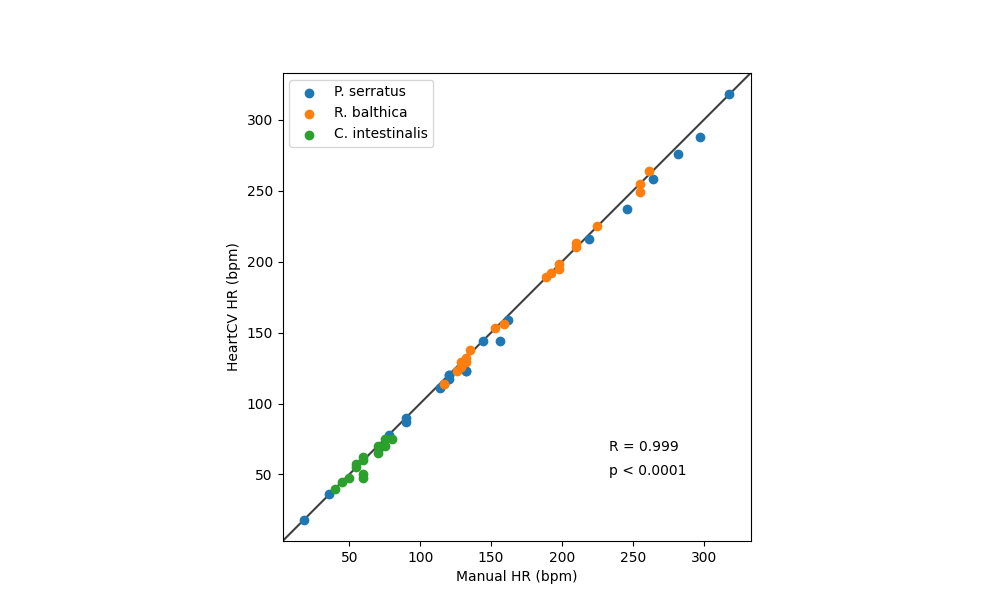
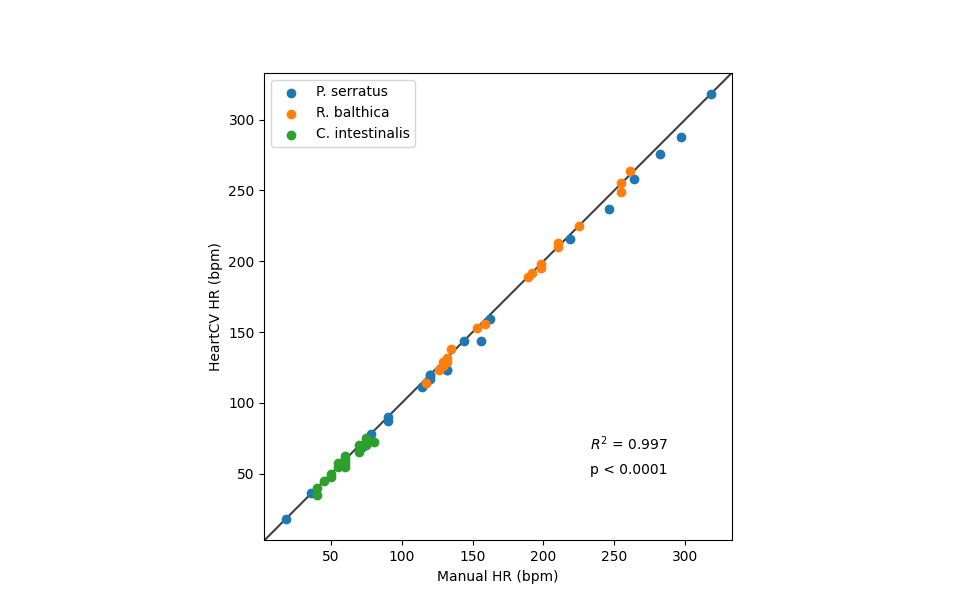
Make further changes to validation plotting and integrate new automated data.

diff --git a/validation/compare_hr_mpx.py b/validation/compare_hr_mpx.py
@@ -5,6 +5,7 @@ import pandas as pd
 import glob
 from statsmodels.nonparametric.smoothers_lowess import lowess
 from scipy.stats import pearsonr
+from sklearn.metrics import r2_score
 
 from heartcv import minmax_scale as scale
 
@@ -29,7 +30,7 @@ def corr_stats(r, p):
     else:
         p_str = 'p > 0.05'
 
-    r_str = f'R = {round(r, 3)}'
+    r_str = f'$R^2$ = {round(r, 3)}'
 
     return r_str, p_str
 
@@ -157,8 +158,8 @@ def stats(d_peaks, s_peaks, l, fs):
     med_t = np.median(d_diffs)
     std_t = d_diffs.std()
 
-    # RMSS
-    rmssd = rmse(d_diffs[1:], d_diffs[:-1])
+    # # RMSS
+    # rmssd = rmse(d_diffs[1:], d_diffs[:-1])
 
     # Diffs
     s_diffs = s_peaks[1:] - s_peaks[:-1]
@@ -169,8 +170,10 @@ def stats(d_peaks, s_peaks, l, fs):
     med_t = np.mean((med_t, s_diffs.min()))
     std_t = np.mean((std_t, s_diffs.min()))
 
-    # RMSS
-    rmssd = np.mean((rmssd, rmse(s_diffs[1:], s_diffs[:-1])))
+    # # RMSS
+    # rmssd = np.mean((rmssd, rmse(s_diffs[1:], s_diffs[:-1])))
+
+    rmssd = None
 
     return [[hr], [min_t], [max_t], [mean_t], [med_t], [std_t], [rmssd]]
 
@@ -637,49 +640,55 @@ all_m = append_with(all_m, stats(*mds23, 300, 30))
 
 # Auto
 ds = parse_auto(
-    "./data/ciona/mpx_auto_MAH03784.csv", inv=False, subset=None, frac=0, prominence=0.2
+    "./data/ciona/mpx2_auto_MAH03784.csv", inv=False, subset=None, frac=0, prominence=0.2
 )
 ds1 = parse_auto(
-    "./data/ciona/mpx_auto_MAH03785.csv", inv=False, subset=None, frac=0, prominence=0.2
+    "./data/ciona/mpx2_auto_MAH03785.csv", inv=False, subset=None, frac=0, prominence=0.2
 )
 ds2 = parse_auto(
-    "./data/ciona/mpx_auto_MAH03786.csv", inv=False, subset=None, frac=0, prominence=0.2
+    "./data/ciona/mpx2_auto_MAH03786.csv", inv=False, subset=None, frac=0, prominence=0.2
 )
 ds3 = parse_auto(
-    "./data/ciona/mpx_auto_MAH03787.csv", inv=False, subset=None, frac=0, prominence=0.2
+    "./data/ciona/mpx2_auto_MAH03787.csv", inv=False, subset=None, frac=0, prominence=0.3
 )
 ds4 = parse_auto(
-    "./data/ciona/mpx_auto_MAH03788.csv", inv=False, subset=None, frac=0, prominence=0.3
+    "./data/ciona/mpx2_auto_MAH03788.csv", inv=False, subset=None, frac=0, prominence=0.3, distance=15
 )
 ds5 = parse_auto(
-    "./data/ciona/mpx_auto_MAH03789.csv", inv=False, subset=None, frac=0, prominence=0.3
+    "./data/ciona/mpx2_auto_MAH03789.csv", inv=False, subset=None, frac=0, prominence=0.3
 )
 ds6 = parse_auto(
-    "./data/ciona/mpx_auto_MAH03790.csv", inv=False, subset=None, frac=0, prominence=0.3
+    "./data/ciona/mpx2_auto_MAH03790.csv", inv=False, subset=None, frac=0, prominence=0.3
 )
 ds7 = parse_auto(
-    "./data/ciona/mpx_auto_MAH03791.csv", inv=False, subset=None, frac=0, prominence=0.15
+    "./data/ciona/mpx2_auto_MAH03791.csv", inv=False, subset=None, frac=0, prominence=0.15
 )
 ds8 = parse_auto(
-    "./data/ciona/mpx_auto_MAH03792.csv", inv=False, subset=None, frac=0, prominence=0.15
+    "./data/ciona/mpx2_auto_MAH03792.csv", inv=False, subset=None, frac=0, prominence=0.15
 )
 ds9 = parse_auto(
-    "./data/ciona/mpx_auto_MAH03793.csv", inv=False, subset=None, frac=0, prominence=0.15
+    "./data/ciona/mpx2_auto_MAH03793.csv", inv=False, subset=None, frac=0, prominence=0.2
 )
 ds10 = parse_auto(
-    "./data/ciona/mpx_auto_MAH03794.csv", inv=False, subset=None, frac=0, prominence=0.15
+    "./data/ciona/mpx2_auto_MAH03794.csv", inv=False, subset=None, frac=0, prominence=0.15
 )
 ds11 = parse_auto(
-    "./data/ciona/mpx_auto_MAH03795.csv", inv=False, subset=None, frac=0, prominence=0.15
+    "./data/ciona/mpx2_auto_MAH03795.csv", inv=False, subset=None, frac=0, prominence=0.15
 )
 ds12 = parse_auto(
-    "./data/ciona/mpx_auto_MAH03795.csv", inv=False, subset=None, frac=0, prominence=0.15
+    "./data/ciona/mpx2_auto_MAH03796.csv", inv=False, subset=None, frac=0, prominence=0.2
+)
+ds13 = parse_auto(
+    "./data/ciona/mpx2_auto_MAH03797.csv", inv=False, subset=None, frac=0, prominence=0.1, distance=40
 )
 ds15 = parse_auto(
-    "./data/ciona/mpx_auto_MAH03798.csv", inv=False, subset=None, frac=0, prominence=0.11
+    "./data/ciona/mpx2_auto_MAH03798.csv", inv=False, subset=None, frac=0, prominence=0.11
 )
 ds16 = parse_auto(
-    "./data/ciona/mpx_auto_MAH03799.csv", inv=False, subset=None, frac=0, prominence=0.11
+    "./data/ciona/mpx2_auto_MAH03799.csv", inv=False, subset=None, frac=0, prominence=0.11
+)
+ds17 = parse_auto(
+    "./data/ciona/mpx2_auto_MAH03800.csv", inv=False, subset=None, frac=0, prominence=0.1, distance=20
 )
 
 # Man
@@ -696,8 +705,10 @@ mds9 = parse_man("./data/ciona/hr2_man_MAH03793.csv")
 mds10 = parse_man("./data/ciona/hr2_man_MAH03794.csv")
 mds11 = parse_man("./data/ciona/hr2_man_MAH03795.csv")
 mds12 = parse_man("./data/ciona/hr2_man_MAH03796.csv")
-mds15 = parse_man("./data/ciona/hr2_man_MAH03799.csv")
-mds16 = parse_man("./data/ciona/hr2_man_MAH03800.csv")
+mds13 = parse_man("./data/ciona/hr2_man_MAH03797.csv")
+mds15 = parse_man("./data/ciona/hr2_man_MAH03798.csv")
+mds16 = parse_man("./data/ciona/hr2_man_MAH03799.csv")
+mds17 = parse_man("./data/ciona/hr2_man_MAH03800.csv")
 
 # Create containers
 a_hr2 = []
@@ -731,8 +742,11 @@ all_a = append_with(all_a, stats(*ds8, 300, 25))
 all_a = append_with(all_a, stats(*ds9, 300, 25))
 all_a = append_with(all_a, stats(*ds10, 300, 25))
 all_a = append_with(all_a, stats(*ds11, 300, 25))
+all_a = append_with(all_a, stats(*ds12, 300, 25))
+# all_a = append_with(all_a, stats(*ds13, 300, 25))
 all_a = append_with(all_a, stats(*ds15, 300, 25))
 all_a = append_with(all_a, stats(*ds16, 300, 25))
+all_a = append_with(all_a, stats(*ds17, 300, 25))
 
 # Compute stats (man)
 all_m = append_with(all_m, stats(*mds, 300, 25))
@@ -747,12 +761,17 @@ all_m = append_with(all_m, stats(*mds8, 300, 25))
 all_m = append_with(all_m, stats(*mds9, 300, 25))
 all_m = append_with(all_m, stats(*mds10, 300, 25))
 all_m = append_with(all_m, stats(*mds11, 300, 25))
+all_m = append_with(all_m, stats(*mds12, 300, 25))
+# all_m = append_with(all_m, stats(*mds13, 300, 25))
 all_m = append_with(all_m, stats(*mds15, 300, 25))
 all_m = append_with(all_m, stats(*mds16, 300, 25))
+all_m = append_with(all_m, stats(*mds17, 300, 25))
 
 # Deconstruct
 [a_hr2, a_min_t2, a_max_t2, a_mean_t2, a_med_t2, a_std_t2, a_rmss2] = all_a
 [m_hr2, m_min_t2, m_max_t2, m_mean_t2, m_med_t2, m_std_t2, m_rmss2] = all_m
+
+# print(a_min_t2)
 
 # And plot
 fig, ax = plt.subplots()
@@ -766,7 +785,7 @@ a_hr.extend(a_hr2)
 m_hr.extend(m_hr1)
 m_hr.extend(m_hr2)
 
-r, p = corr_stats(*pearsonr(m_hr, a_hr))
+r, p = corr_stats(r2_score(m_hr, a_hr), pearsonr(m_hr, a_hr)[1])
 
 lims = [
     np.min([ax.get_xlim(), ax.get_ylim()]),  # min of both axes
@@ -812,7 +831,7 @@ a_min_t.extend(a_min_t2)
 m_min_t.extend(m_min_t1)
 m_min_t.extend(m_min_t2)
 
-r, p = corr_stats(*pearsonr(m_min_t, a_min_t))
+r, p = corr_stats(r2_score(m_min_t, a_min_t), pearsonr(m_min_t, a_min_t)[1])
 
 min, max = lims
 
@@ -839,7 +858,7 @@ a_max_t.extend(a_max_t2)
 m_max_t.extend(m_max_t1)
 m_max_t.extend(m_max_t2)
 
-r, p = corr_stats(*pearsonr(m_max_t, a_max_t))
+r, p = corr_stats(r2_score(m_max_t, a_max_t), pearsonr(m_max_t, a_max_t)[1])
 
 min, max = lims
 
@@ -866,7 +885,7 @@ a_mean_t.extend(a_mean_t2)
 m_mean_t.extend(m_mean_t1)
 m_mean_t.extend(m_mean_t2)
 
-r, p = corr_stats(*pearsonr(m_mean_t, a_mean_t))
+r, p = corr_stats(r2_score(m_mean_t, a_mean_t), pearsonr(m_mean_t, a_mean_t)[1])
 
 min, max = lims
 
@@ -893,7 +912,7 @@ a_med_t.extend(a_med_t2)
 m_med_t.extend(m_med_t1)
 m_med_t.extend(m_med_t2)
 
-r, p = corr_stats(*pearsonr(m_med_t, a_med_t))
+r, p = corr_stats(r2_score(m_med_t, a_med_t), pearsonr(m_med_t, a_med_t)[1])
 
 min, max = lims
 
@@ -920,7 +939,7 @@ a_std_t.extend(a_std_t2)
 m_std_t.extend(m_std_t1)
 m_std_t.extend(m_std_t2)
 
-r, p = corr_stats(*pearsonr(m_std_t, a_std_t))
+r, p = corr_stats(r2_score(m_std_t, a_std_t), pearsonr(m_std_t, a_std_t)[1])
 
 min, max = lims
 
